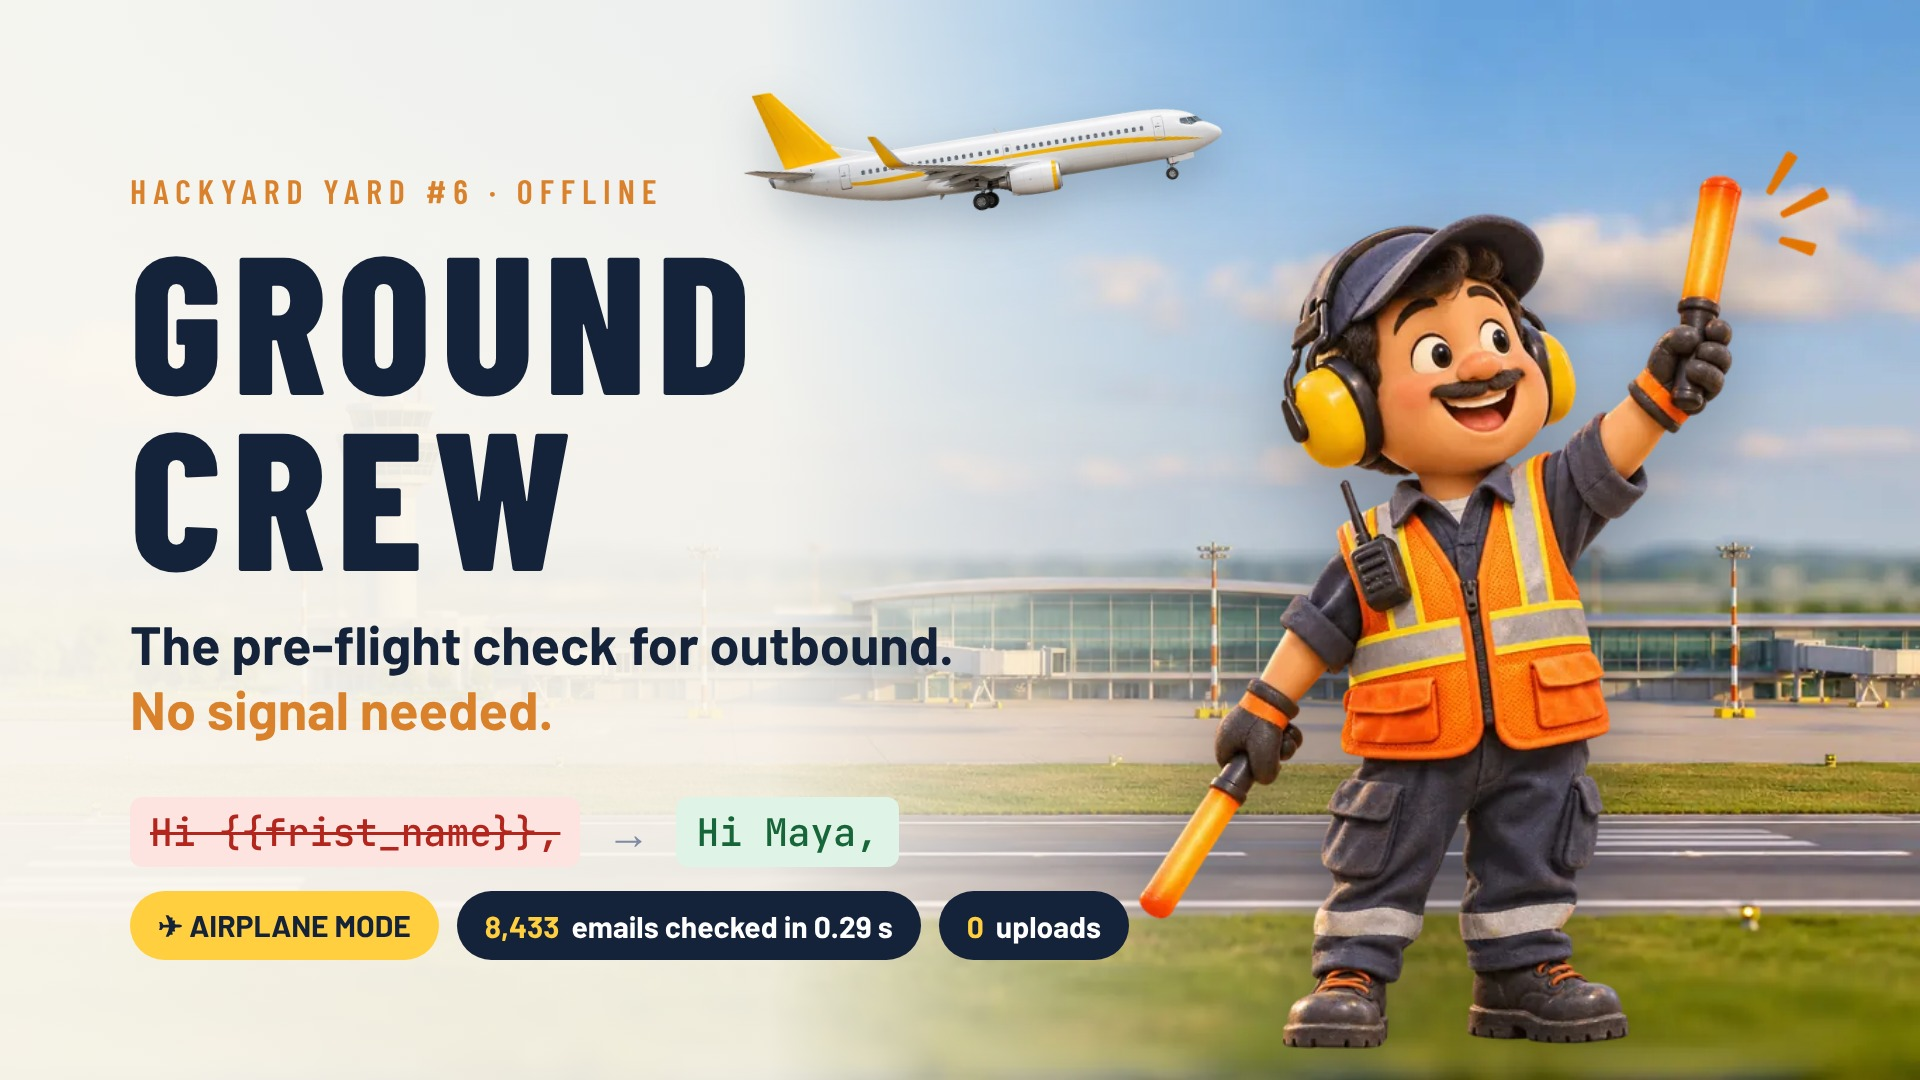
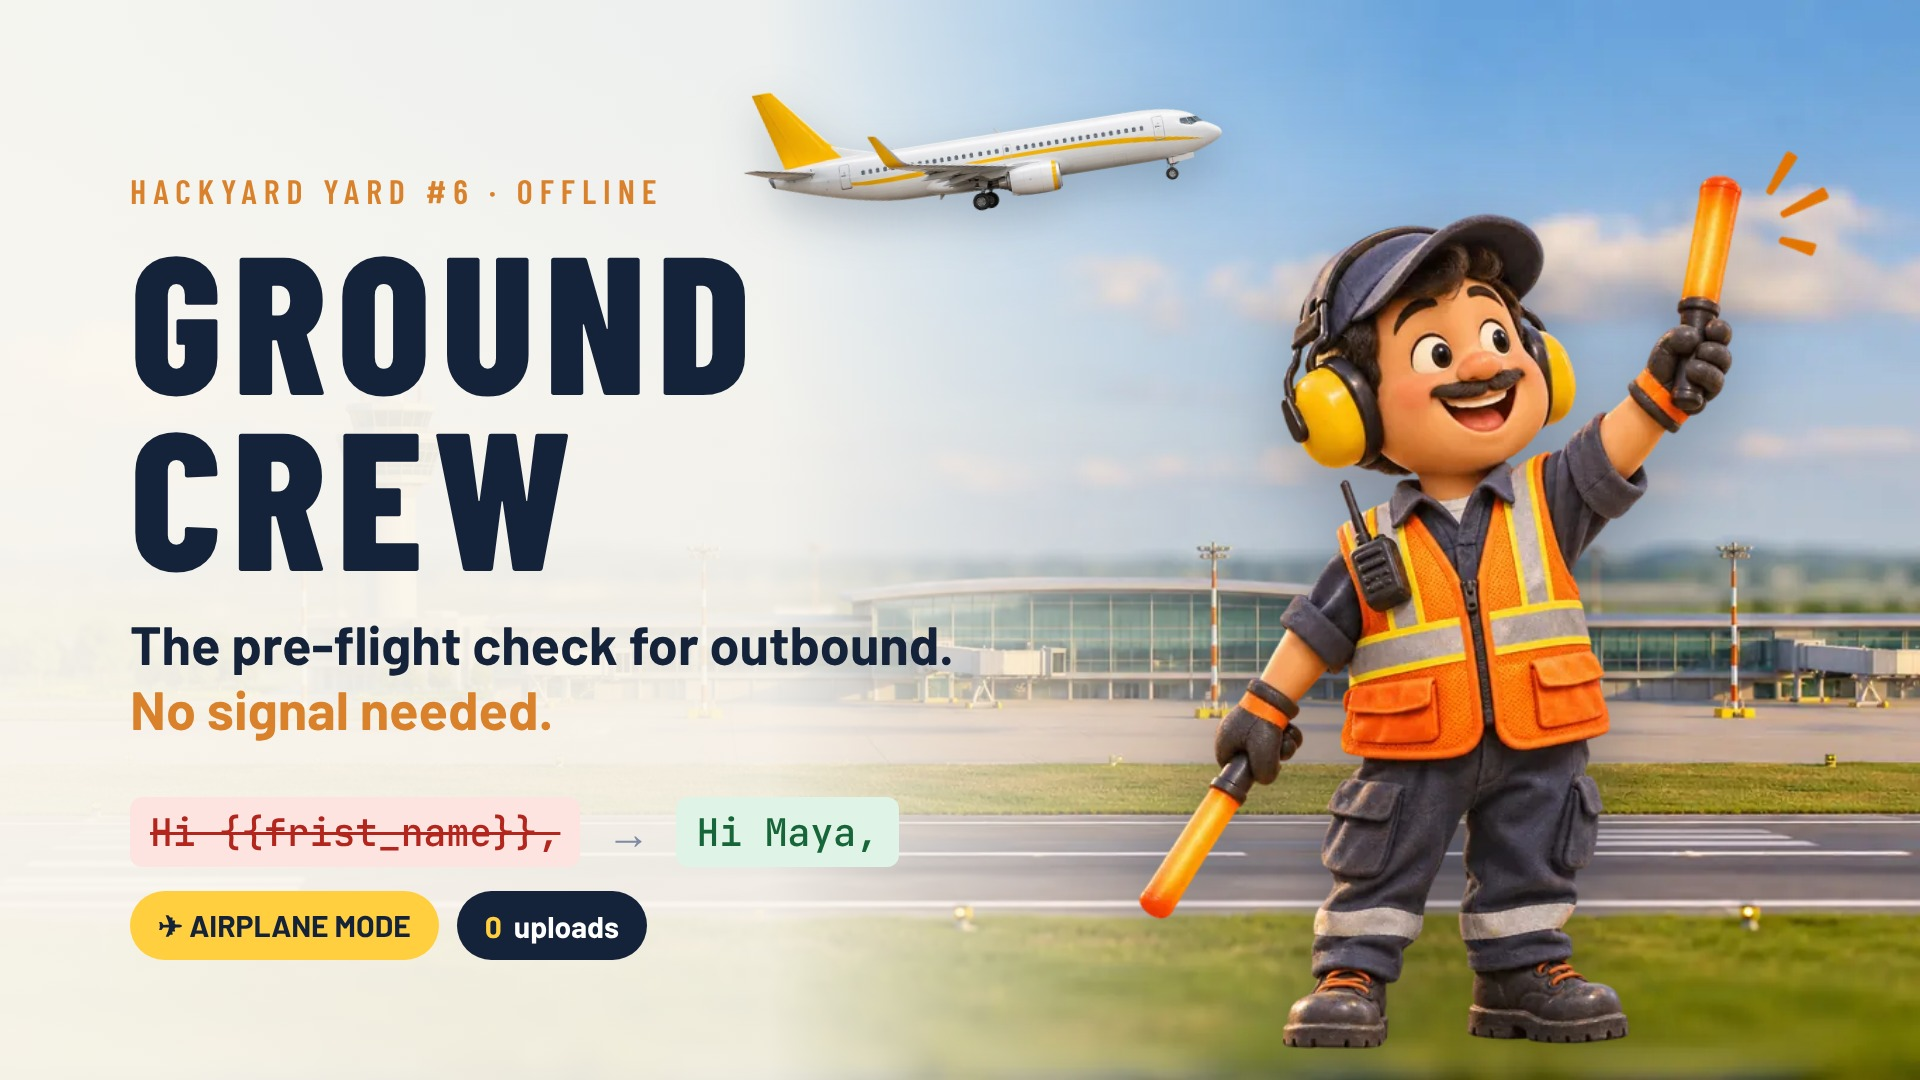
README: keep the reveal for the demo
Claude-Session: https://claude.ai/code/session_01U7b8smsMhcsoDXk21X5VYb

Changed region(s): [[0.25, 0.825, 0.5938, 0.8861]]

diff --git a/README.md b/README.md
@@ -63,7 +63,7 @@ One file, about 1.7 MB, with all the art, fonts and sounds inside.
 |---|---|
 | **00 Check-in** | Drop in a CSV from Apollo, Clay, Sales Navigator or any sheet. Ground Crew guesses which column is which, and you confirm. |
 | **01 Baggage Claim** | Fixes messy fields, merges twins, and holds rows that can't be emailed. Every fix shows what it was before. |
-| **02 Control Tower** | Each email step is a flight strip. The tower radios in as you type: broken tags, blanks with no fallback, spammy words, long sentences. Spintax is understood, and every version is checked. |
+| **02 Control Tower** | Each email step is a flight strip. The tower radios in as you type: broken tags, blanks with no fallback, spammy words, long sentences. |
 | **03 Boarding Gate** | Security Check fills in every step for every lead and scans the finished email. Any Mayday holds that lead. |
 | **04 Take-off** | Download the clean leads, the held leads with reasons, and a log of every change. Nothing is sent. |
 
@@ -126,10 +126,6 @@ Prefer a lighter touch? Switch the tower to **Gentle**, and it only radios Mayda
 - `Brightwave Pvt Ltd` → `Brightwave`
 - `VP Sales | Ex-Google | Speaker` → `VP Sales`
 - Same email or same LinkedIn profile → merged into one lead
-
-**Spintax, every version**
-- `{Hi|Hey|Hello} {{first_name}}` is read as three versions, and the tower checks tags and wording in every one
-- Each lead's boarding pass shows the exact version that lead would get
 
 **Sent to Lost & Found**
 - No first name, or junk like `Test`, `N/A`, `J.`
